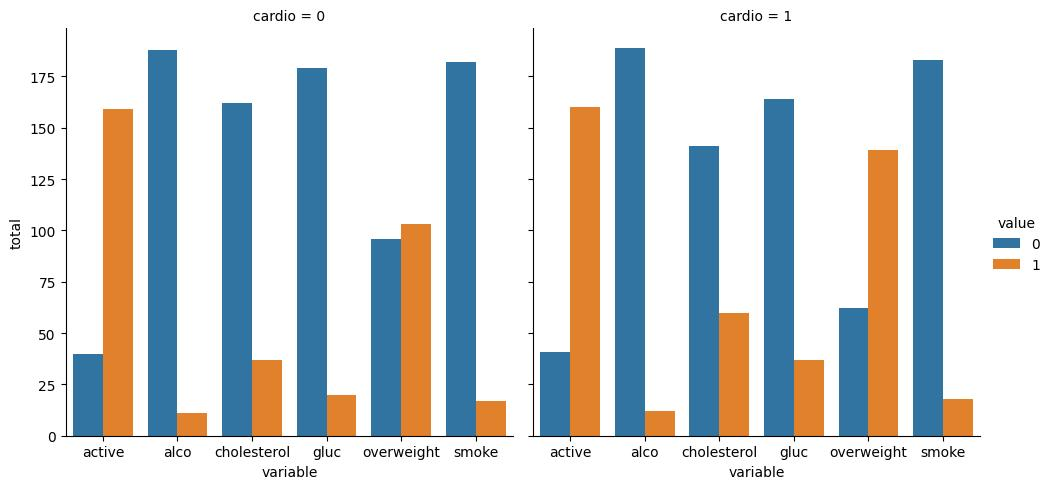
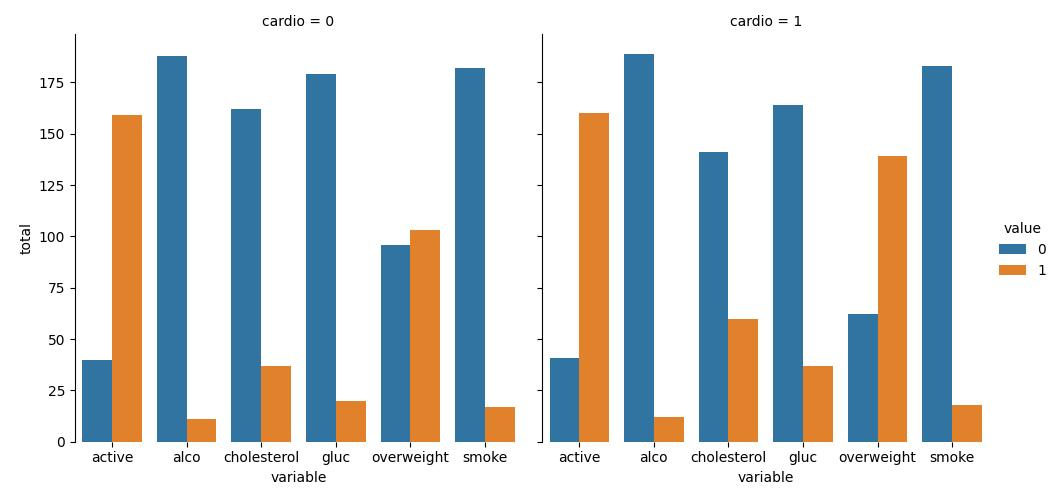
draw multiple plots

diff --git a/medical-data-visualizer/main.py b/medical-data-visualizer/main.py
@@ -6,30 +6,27 @@ from seaborn.rcmod import axes_style
 
 df = pd.read_csv('medical_examination.csv')
 
-# BMI: weight (kg) / height ^ 2 (meters ^ 2)
 # ! height is originally in centimeters
 # df['BMI'] = df['weight'] / (df['height'] / 100) ** 2
-
-# overweight: BMI > 25
 df['overweight'] = df['weight'] / (df['height'] / 100) ** 2 > 25
-# 0 not overweight, 1 overweight
+
 df['overweight'] = df['overweight'].replace({True: 1, False: 0})
 
-# normalize `cholesterol` or `gluc`: 1 -> 0, >1 -> 1
 df[['cholesterol', 'gluc']] = df[['cholesterol', 'gluc']
                                  ].astype(str).replace({'1': 0, '[2-9]': 1}, regex=True)
 
-# long format
-# df_long = pd.melt(df, value_vars=['active', 'alco', 'cholesterol',
-                                  # 'gluc', 'overweight', 'smoke'], id_vars=['cardio'])
+df_long = pd.melt(df, value_vars=['active', 'alco', 'cholesterol',
+                                  'gluc', 'overweight', 'smoke'], id_vars=['cardio'])
 
-# count_plot = sns.catplot(kind='count', col='cardio',
-#  x='variable', hue='value', data=df_long)
-# count_plot.set(ylabel='total')
-# count_plot.despine(bottom=True) # remove x axis line
-# count_plot.savefig('count_plot.jpg')
+fig, ax = plt.subplots()
 
-# searborn heatmap
+ax = sns.catplot(kind='count', col='cardio',
+                 x='variable', hue='value', data=df_long)
+ax.set(ylabel='total')
+ax.despine(bottom=True)
+
+plt.savefig('count_plot.jpg')
+
 df_clean = df.drop(df[
     (df['ap_lo'] > df['ap_hi']) |
     (df['height'] < df['height'].quantile(0.025)) |
@@ -42,6 +39,8 @@ corr = df_clean.corr()
 mask = np.zeros_like(corr)
 mask[np.triu_indices_from(mask)] = 1
 
-ax = sns.heatmap(corr, annot=True, annot_kws={'fontsize': 'x-small'},  fmt='.1f',
-                 mask=mask, linewidths=0.5, cbar_kws={'shrink': 0.5})
+fig, ax = plt.subplots(figsize=(9, 8))
+
+sns.heatmap(corr, annot=True, annot_kws={'fontsize': 'x-small'},  fmt='.1f',
+            mask=mask, linewidths=0.5, cbar_kws={'shrink': 0.5}, square=True)
 plt.savefig('heatmap.jpg')
